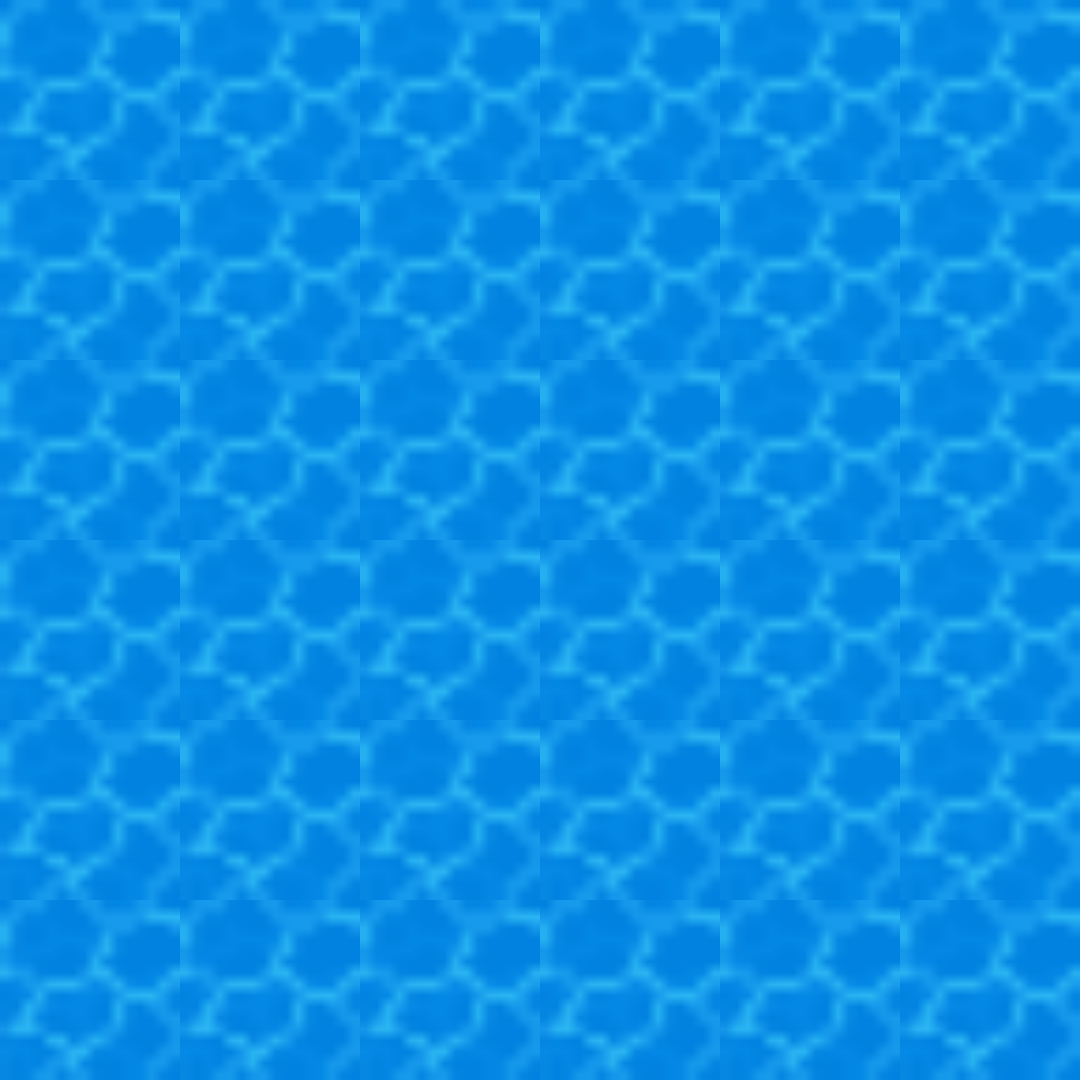
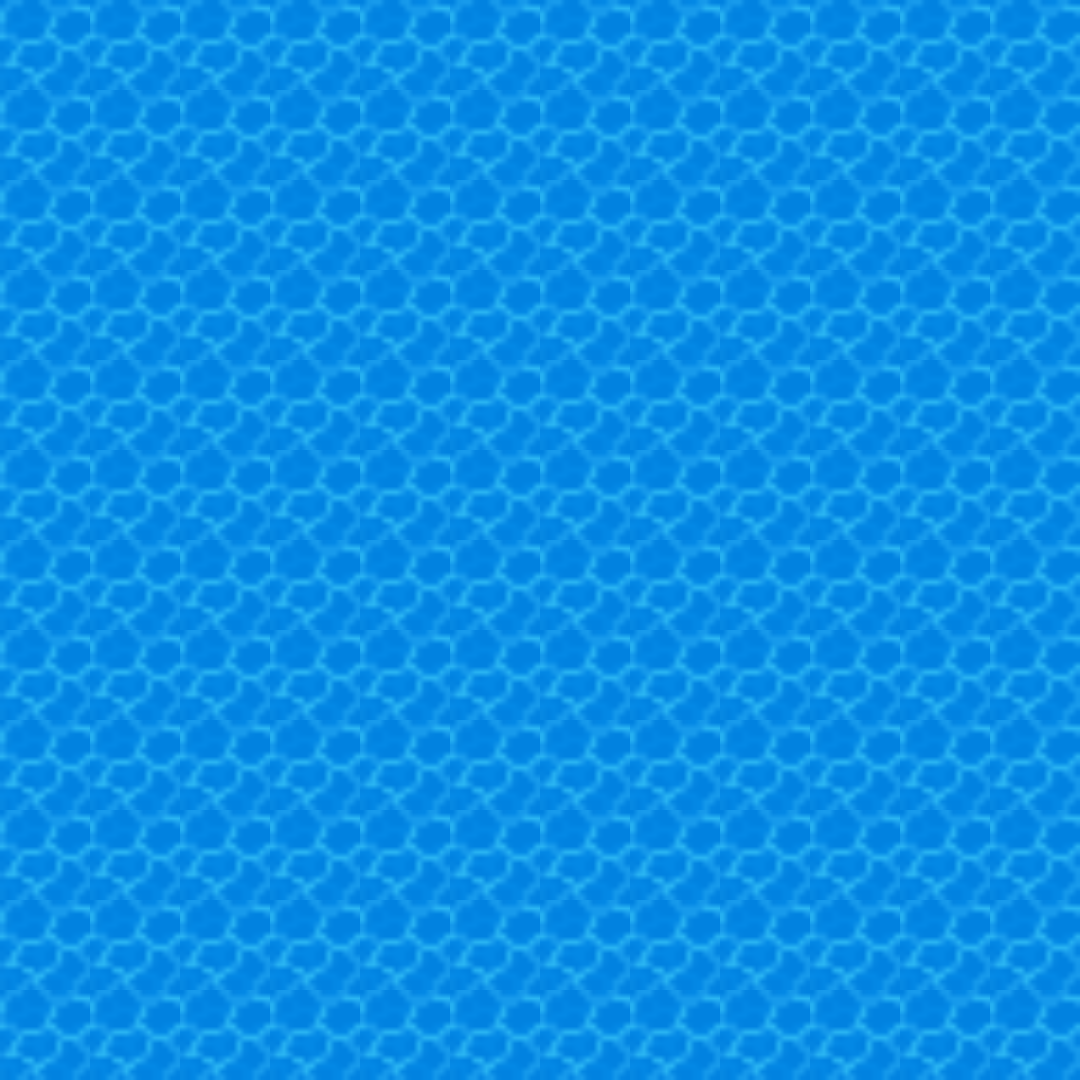
new update

Changed region(s): [[0.0, 0.0, 1.0, 1.0]]

diff --git a/index.html b/index.html
@@ -1914,6 +1914,17 @@
     return 'meadow';
   }
 
+  // Distance-based check for the actual pond ellipse (not just the wider
+  // "water" quadrant used for biome coloring) — used to keep decorations
+  // and cover zones from ending up inside the pond itself. `pad` inflates
+  // the pond's radius so callers can keep a safety margin around the edge.
+  function nearPond(x,y,pad){
+    pad = pad || 0;
+    const nx = (x - POND_CENTER.x) / (POND_RADIUS_X + pad);
+    const ny = (y - POND_CENTER.y) / (POND_RADIUS_Y + pad);
+    return (nx*nx + ny*ny) <= 1;
+  }
+
   function makeObstacles(){
     obstacles = [];
     let tries=0;
@@ -1974,6 +1985,7 @@
       const y = rand(70, WORLD_H-70);
       if(dist({x,y},{x:CENTER_X,y:CENTER_Y}) < 190) continue; // keep cornucopia open
       const r = rand(45,85);
+      if(nearPond(x,y,r)) continue; // keep grass patches (and their tufts) out of the pond
       const overlap = grassZones.some(z=> dist(z,{x,y}) < z.r + r*0.3);
       if(overlap) continue;
       grassZones.push({x,y,r});
@@ -2025,6 +2037,7 @@
         const x = z.x + Math.cos(ang)*rr;
         const y = z.y + Math.sin(ang)*rr;
         if(obstacles.some(o=> dist({x,y},o) < o.r+6)) continue;
+        if(nearPond(x,y,0)) continue; // never let a grass tuft land inside the pond
         decorations.push({x,y,kind:'tallgrass',phase:Math.random()*Math.PI*2});
       }
     });
@@ -2169,11 +2182,21 @@
 
   function resetGame(){
     tributes = [];
-    // Build every district's two reaping slots, then pull the player out
-    // as their chosen district's tribute and shuffle the rest for spawn order.
+    // Build every district's two reaping slots as explicit {district,gender}
+    // pairs so each district always fields one male AND one female tribute
+    // (instead of two random same-gender copies) — the player fills one
+    // slot of their chosen district, and the pool below covers the rest.
     let pool = [];
-    DISTRICTS.forEach(d=>{ pool.push(d, d); });
-    pool.splice(pool.indexOf(selectedDistrict), 1);
+    DISTRICTS.forEach(d=>{
+      if(d === selectedDistrict){
+        // the player already takes one gender slot for this district;
+        // only the opposite-gender tribute still needs to be generated
+        pool.push({district: d, gender: selectedGender === 'male' ? 'female' : 'male'});
+      } else {
+        pool.push({district: d, gender: 'male'});
+        pool.push({district: d, gender: 'female'});
+      }
+    });
     for(let i=pool.length-1;i>0;i--){
       const j = Math.floor(Math.random()*(i+1));
       const tmp = pool[i]; pool[i] = pool[j]; pool[j] = tmp;
@@ -2184,7 +2207,7 @@
     // (or off a body) once the gong sounds.
     tributes.push(player);
     for(let i=0;i<pool.length;i++){
-      tributes.push(newTribute(pool[i], false));
+      tributes.push(newTribute(pool[i].district, false, pool[i].gender));
     }
 
     positionTributesOnPlates();
@@ -2291,13 +2314,26 @@
   const selectBtn = document.getElementById('swapBtn');
   const selectOn = (e)=>{
     e.preventDefault();
-    if(introActive() || endScreenActive()){ return; }
+    if(endScreenActive()){ return; }
+    if(introActive()){ introHandleAction('down'); return; }
     cycleWeapon(-1);
   };
   if(selectBtn){
     selectBtn.addEventListener('touchstart', selectOn, {passive:false});
     selectBtn.addEventListener('mousedown', selectOn);
     selectBtn.addEventListener('click', selectOn);
+  }
+
+  const startBtn = document.getElementById('startHint');
+  const startOn = (e)=>{
+    e.preventDefault();
+    if(endScreenActive()){ returnToReaping(); return; }
+    if(introActive()){ introHandleAction('A'); return; }
+  };
+  if(startBtn){
+    startBtn.addEventListener('touchstart', startOn, {passive:false});
+    startBtn.addEventListener('mousedown', startOn);
+    startBtn.addEventListener('click', startOn);
   }
 
   // ============================================================